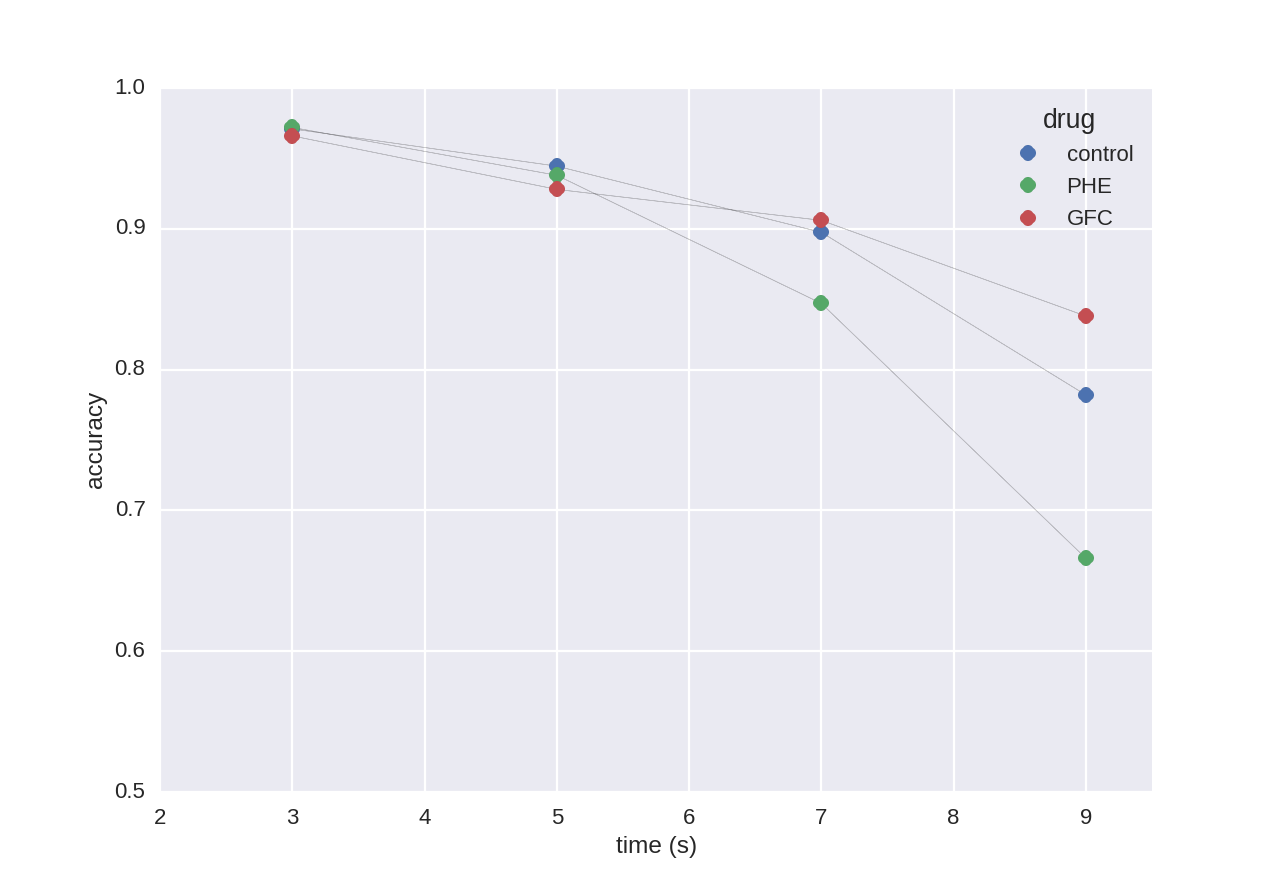
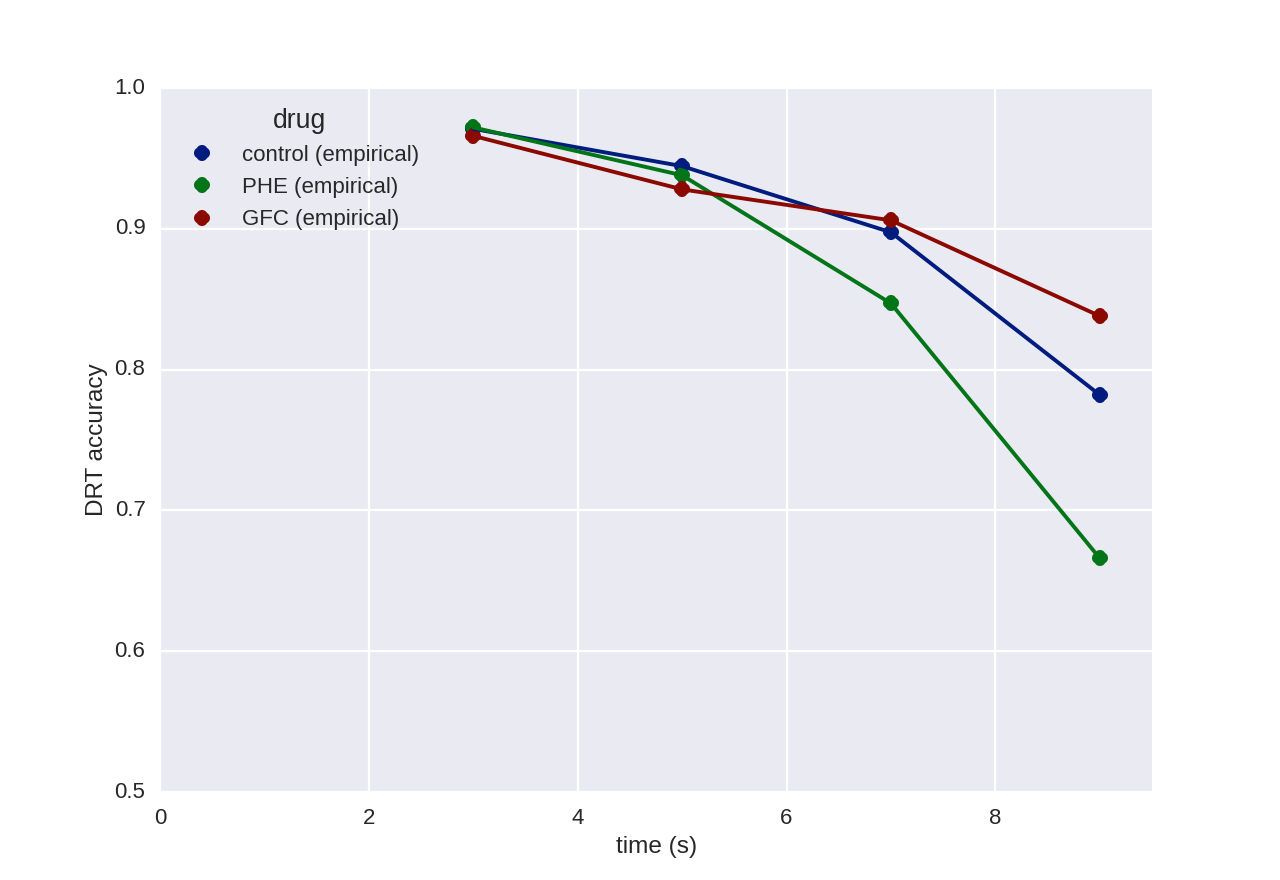
more diagrams, changed BG_rescale method to improve empirical fit with ramp=0.4

diff --git a/replotter.py b/replotter.py
@@ -1,12 +1,14 @@
+import nengo
 import pandas as pd
 import numpy as np
 import seaborn as sns
 import matplotlib.pyplot as plt
 
-fname='wm_mp_choice_inject_5WBGDPJBN'
-empirical_dataframe=pd.read_pickle('empirical_data_start2s') #add '.pkl' onto filename for windows
+fname='wm_mp_choice_recurrent_PF4MXX7WQ'
+# empirical_dataframe=pd.read_pickle('empirical_data_start3s') #add '.pkl' onto filename for windows
 # primary_dataframe=pd.read_pickle('data/'+fname+'_primary_data.pkl')
 
+#representation and forgetting
 # sns.set(context='poster')
 # figure, (ax1, ax2) = plt.subplots(2, 1)
 # sns.tsplot(time="time",value="wm",data=primary_dataframe,unit="trial",condition='drug',ax=ax1,ci=95)
@@ -23,17 +25,33 @@ empirical_dataframe=pd.read_pickle('empirical_data_start2s') #add '.pkl' onto fi
 # figure.savefig(fname+'_primary_plots_2.png')
 # plt.show()
 
-sns.set(context='poster')
-figure, (ax1,ax2) = plt.subplots(2, 1)
-sns.tsplot(time="time",value="accuracy",data= empirical_dataframe.query("drug=='control (empirical)'"),
-			unit='trial',condition='drug',
-			interpolate=False,ax=ax2,color=sns.color_palette('dark'))
-sns.tsplot(time="time",value="accuracy",data= empirical_dataframe.query("drug=='control (empirical)'"),
-			unit='trial',condition='drug',
-			interpolate=True,ax=ax2,color=sns.color_palette('dark'),legend=False)
-ax2.set(xlabel='delay period length (s)',xlim=(0,9.5),ylim=(0.5,1),ylabel='DRT accuracy')
-plt.legend(loc='lower left')
-figure.savefig('empirical_plot_all.png')
-plt.show()
+#empirical data
+# sns.set(context='poster')
+# figure, (ax1,ax2) = plt.subplots(2, 1)
+# sns.tsplot(time="time",value="accuracy",data= empirical_dataframe.query("drug=='control (empirical)'"),
+# 			unit='trial',condition='drug',
+# 			interpolate=False,ax=ax2,color=sns.color_palette('dark'))
+# sns.tsplot(time="time",value="accuracy",data= empirical_dataframe.query("drug=='control (empirical)'"),
+# 			unit='trial',condition='drug',
+# 			interpolate=True,ax=ax2,color=sns.color_palette('dark'),legend=False)
+# ax2.set(xlabel='delay period length (s)',xlim=(0,9.5),ylim=(0.5,1),ylabel='DRT accuracy')
+# plt.legend(loc='lower left')
+# figure.savefig('empirical_plot_all.png')
+# plt.show()
 
 # empirical_dataframe.query("drug=='control (empirical)'")
+
+#Tuning Curves with alpha/bias
+#'drug_effect_gainbias':{'control':[1.0,1,0],'PHE':[0.99,1.02],'GFC':[1.05,0.95]}
+sns.set(context='poster')
+figure, (ax1,ax2) = plt.subplots(2, 1)
+n = nengo.neurons.LIFRate(tau_rc=0.02, tau_ref=0.002) #n is a Nengo LIF neuron, these are defaults
+J = np.linspace(-1,10,100)
+ax1.plot(J, n.rates(J, gain=1, bias=-3),label="gain=1, bias=-3") 
+ax1.plot(J, n.rates(J, gain=1, bias=-4),label="gain=1, bias=-4") 
+ax1.plot(J, n.rates(J, gain=2, bias=-3),label="gain=2, bias=-3") 
+ax1.plot(J, n.rates(J, gain=2, bias=-4),label="gain=2, bias=-4") 
+ax1.set(xlabel='input current',ylabel='activity (Hz)')
+ax1.legend(loc='upper left')
+figure.savefig('alpha_bias_tuning_curves.png')
+plt.show()

diff --git a/wm_multiprocessing.py b/wm_multiprocessing.py
@@ -95,7 +95,7 @@ def run(params):
 
 	def BG_rescale(x): #rescales -1 to 1 into 0.3 to 1, makes 2-dimensional
 		pos_x = 0.5 * (x + 1)
-		rescaled = 0.3 + 0.7 * pos_x, 0.3 + 0.7 * (1 - pos_x)
+		rescaled = 0.4 + 0.6 * pos_x, 0.4 + 0.6 * (1 - pos_x)
 		return rescaled
 
 	'''drug approximations'''
@@ -367,7 +367,7 @@ def main():
 	'''Plot and Export ###############################################'''
 	print 'Exporting Data...'
 	root=os.getcwd()
-	empirical_dataframe=pd.read_pickle('empirical_data') #add '.pkl' onto filename for windows
+	empirical_dataframe=pd.read_pickle('empirical_data_start3s') #add '.pkl' onto filename for windows
 	os.chdir(root+'/data/')
 	addon=str(id_generator(9))
 	fname=filename+'_'+decision_type+'_'+drug_type+'_'+addon
@@ -383,7 +383,9 @@ def main():
 	sns.tsplot(time="time",value="wm",data=primary_dataframe,unit="trial",condition='drug',ax=ax1,ci=95)
 	sns.tsplot(time="time",value="correct",data=primary_dataframe,unit="trial",condition='drug',ax=ax2,ci=95)
 	sns.tsplot(time="time",value="accuracy",data=empirical_dataframe,unit='trial',condition='drug',
-				interpolate=False,ax=ax2)
+				interpolate=False,ax=ax2,color=sns.color_palette('dark'))
+	sns.tsplot(time="time",value="accuracy",data=empirical_dataframe, unit='trial',condition='drug',
+				interpolate=True,ax=ax2,color=sns.color_palette('dark'),legend=False)
 	ax1.set(xlabel='',ylabel='decoded $\hat{cue}$',xlim=(0,9.5),ylim=(0,1),
 				title="drug_type=%s, decision_type=%s, trials=%s" %(drug_type,decision_type,n_trials))
 	ax2.set(xlabel='time (s)',xlim=(0,9.5),ylim=(0.5,1),ylabel='DRT accuracy')

diff --git a/make_emperical_data.py b/make_emperical_data.py
@@ -2,7 +2,7 @@
 import pandas as pd
 import numpy as np
 columns=('time','drug','accuracy','trial')
-emp_timesteps = [2.0,4.0,6.0,8.0]
+emp_timesteps = [3.0,5.0,7.0,9.0]
 empirical_dataframe = pd.DataFrame(columns=columns,index=np.arange(0, 12))
 pre_PHE=[0.972, 0.947, 0.913, 0.798]
 pre_GFC=[0.970, 0.942, 0.882, 0.766]
@@ -14,4 +14,4 @@ for t in range(len(emp_timesteps)):
 	empirical_dataframe.loc[q+1]=[emp_timesteps[t],'PHE (empirical)',post_PHE[t],0]
 	empirical_dataframe.loc[q+2]=[emp_timesteps[t],'GFC (empirical)',post_GFC[t],0]
 	q+=3
-empirical_dataframe.to_pickle('empirical_data_start2s')
+empirical_dataframe.to_pickle('empirical_data_start3s')
